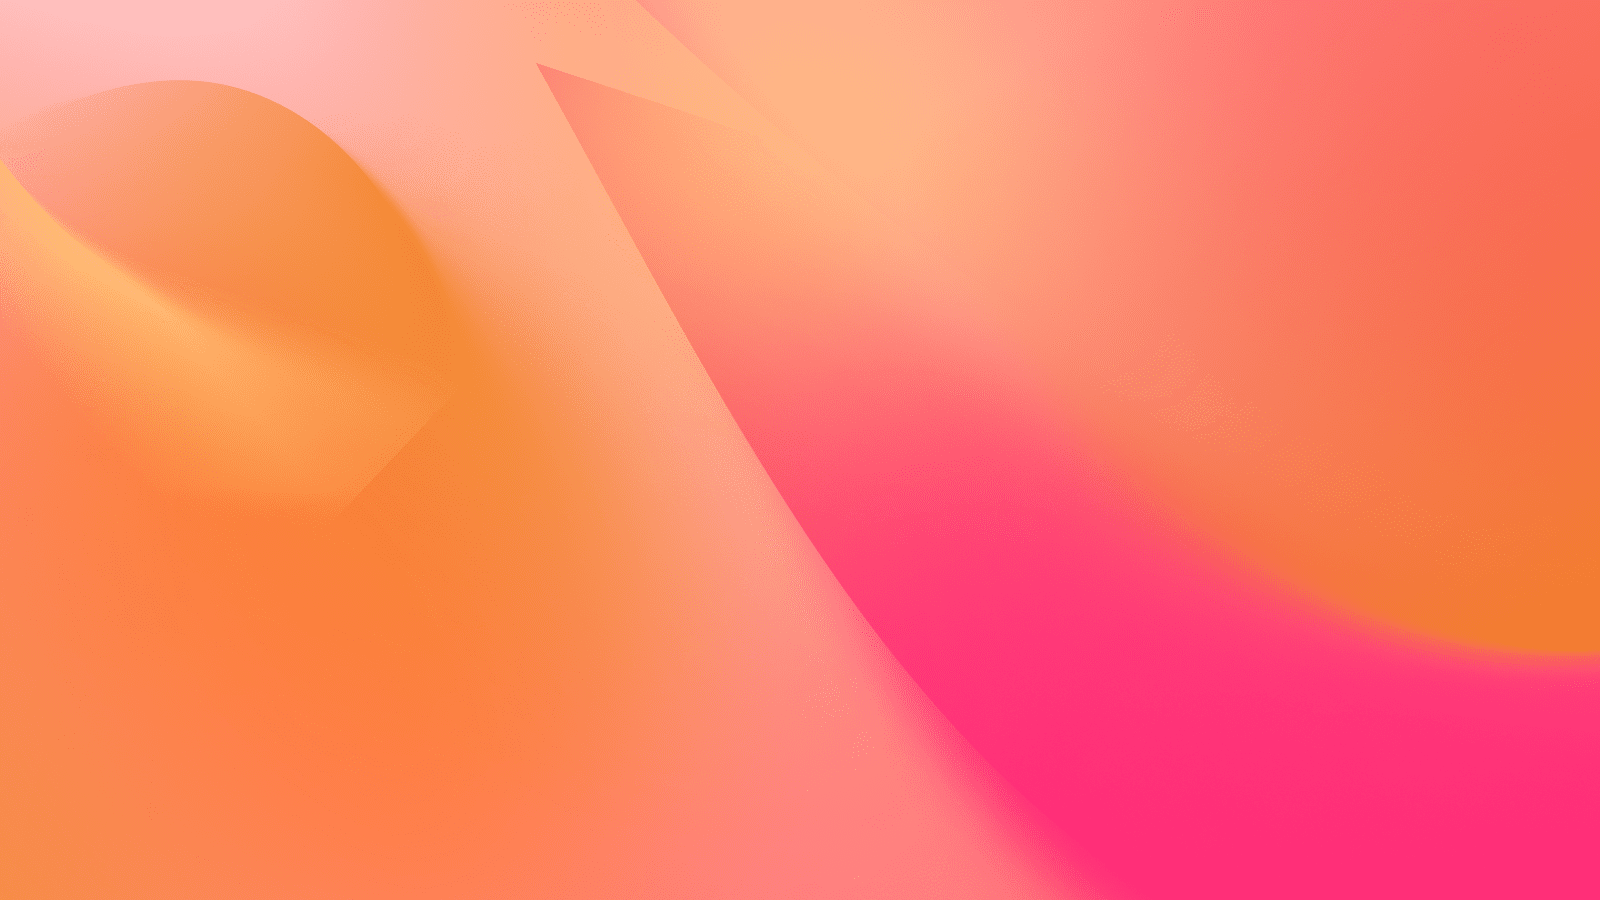
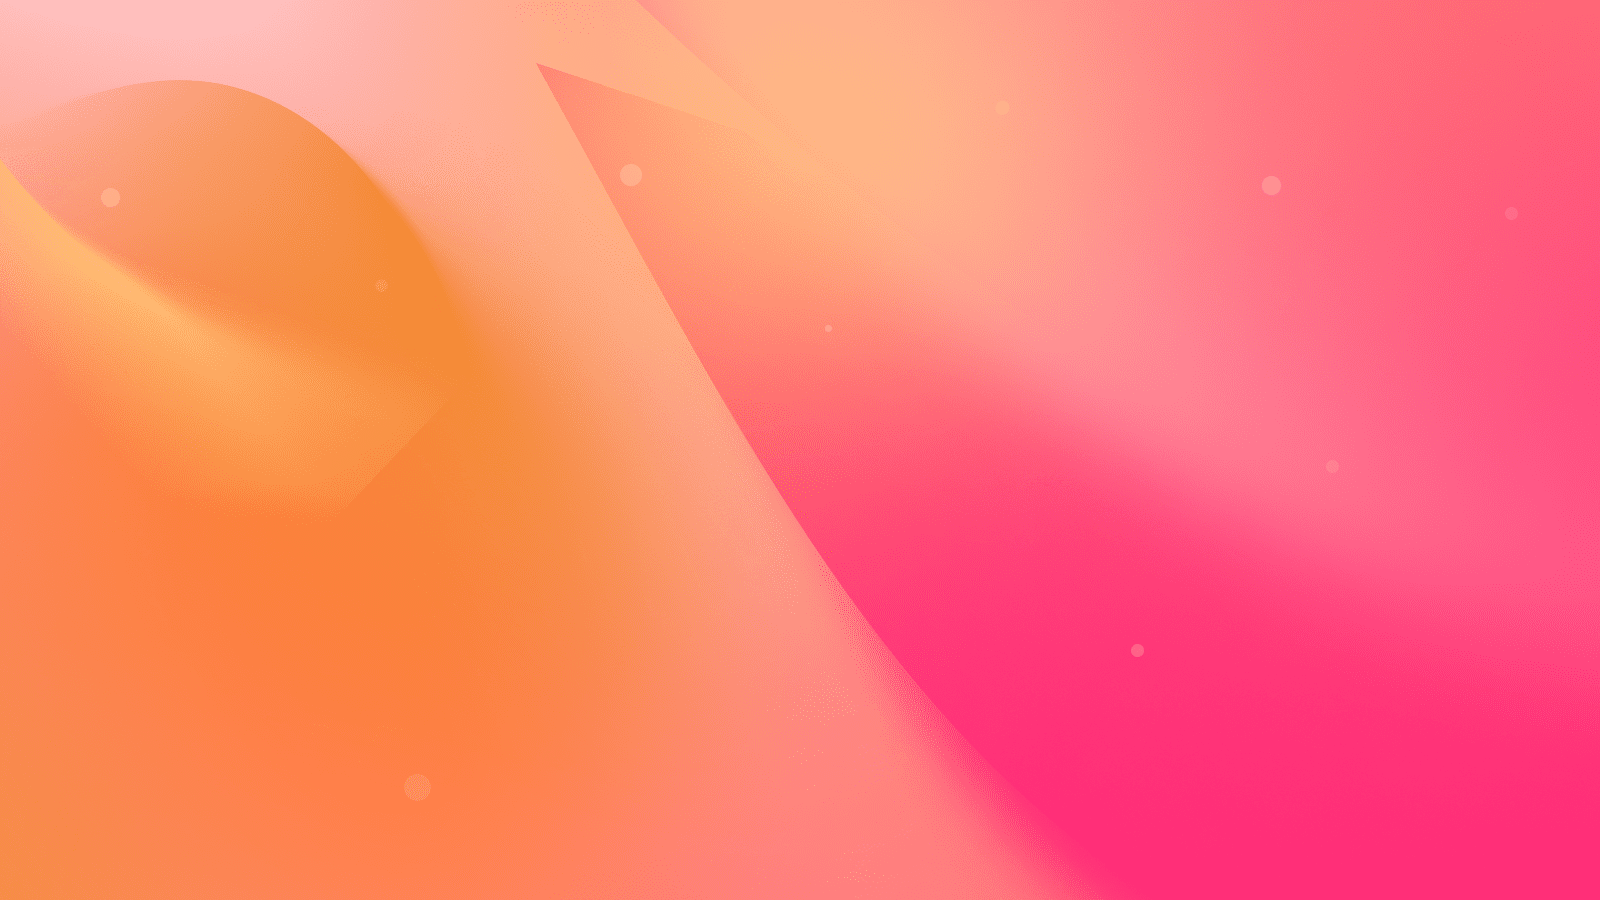
fix: fix hero bg

diff --git a/src/assets/scss/components/_hero.scss b/src/assets/scss/components/_hero.scss
@@ -4,10 +4,25 @@
   color: var(--text-white);
   background-color: var(--bg-hero);
 
-  background-image: url('../images/hero/ellipse.svg'), url('../images/hero/yoga@1x.png'), url('../images/hero/bg-hero@1x.png');
-  background-position: bottom -113px center, 969px 53px, center;
+  background-image:
+    url('../images/hero/ellipse.svg'),
+    url('../images/hero/logo@1x.png'),
+    url('../images/hero/overlay@1x.png'),
+    url('../images/hero/yoga@1x.png'),
+    url('../images/hero/bg-hero@1x.png');
+  background-position:
+    bottom -113px center,
+    left -75px top 292px,
+    right 0 top,
+    left 60.56vw top 53px,
+    center;
   background-repeat: no-repeat;
-  background-size: 1600px 176px, 929px 975px, cover;
+  background-size:
+    auto,
+    auto,
+    auto,
+    auto,
+    cover;
 }
 
 .hero__container {
